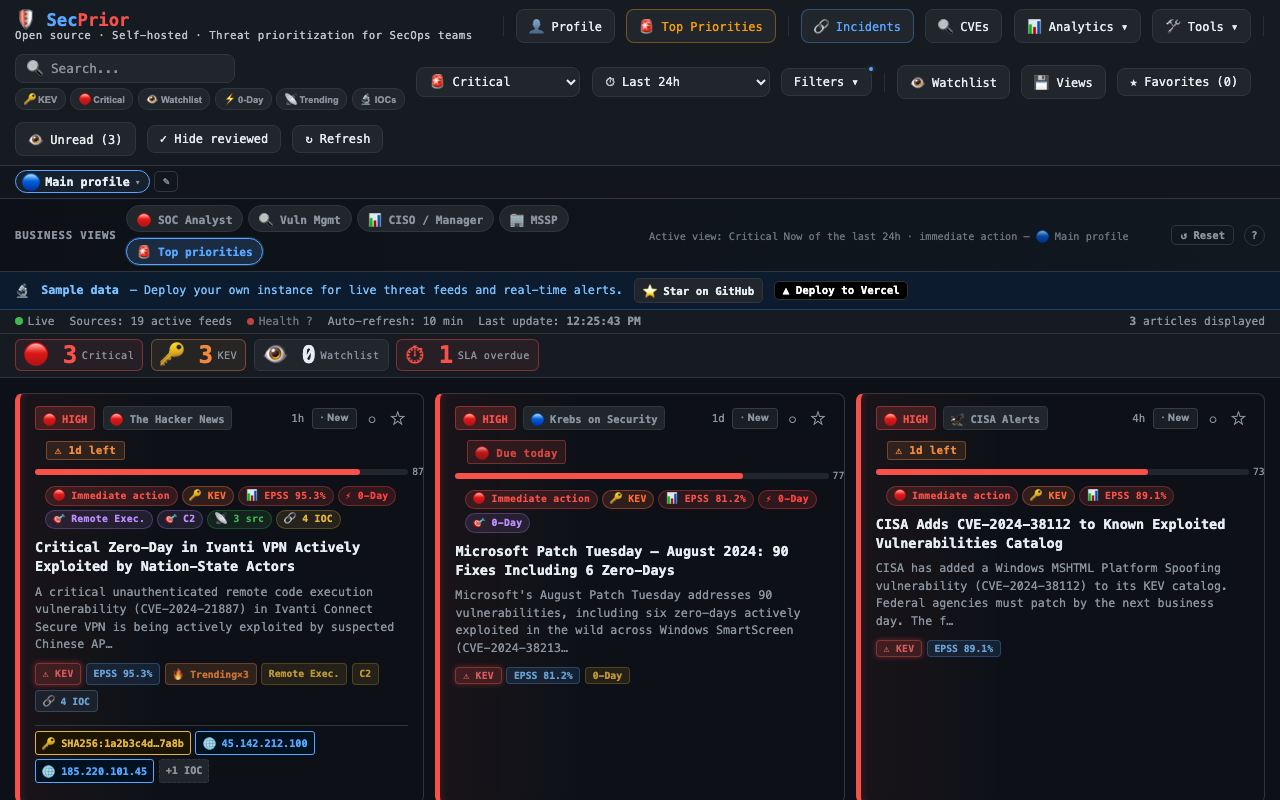
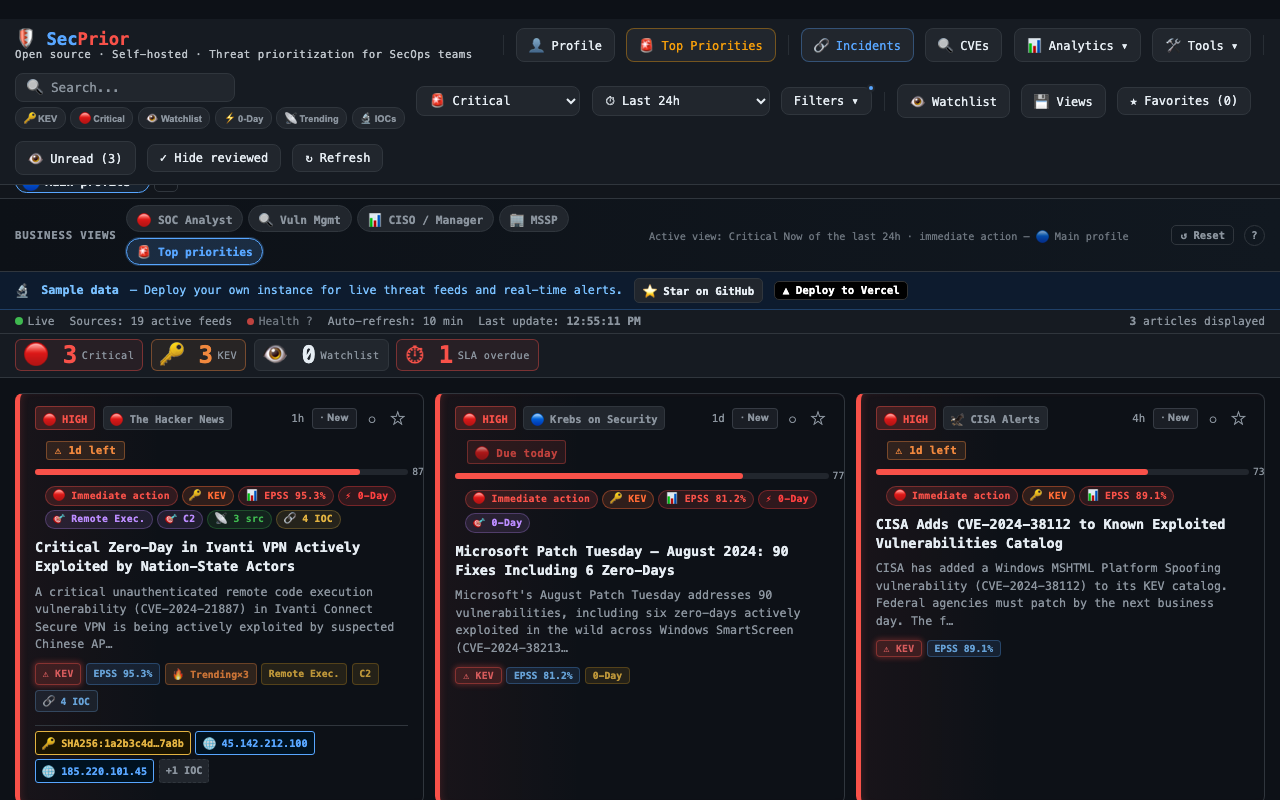
fix: clean up landing page issues
- Retake screenshots without browser extension bar (incognito + disable-extensions)
- Fix duplicate hero/capabilities heading: "Built for operational..." → "Seven capabilities, one workflow"
- Reduce vertical padding on mobile-heavy sections (py-20 → py-14 lg:py-20)

diff --git a/landing.html b/landing.html
@@ -184,7 +184,7 @@
       <div class="max-w-3xl">
         <p class="text-sm font-semibold uppercase tracking-[.2em] text-cyan-400">Core capabilities</p>
         <h2 class="mt-4 text-3xl font-bold tracking-tight sm:text-4xl">
-          Built for operational threat prioritization
+          Seven capabilities, one workflow
         </h2>
         <p class="mt-5 text-lg text-slate-400 leading-8">
           SecPrior helps teams move from feed overload to decision-ready threat context.
@@ -291,7 +291,7 @@
        5 — WHAT SECPRIOR DELIVERS
   ══════════════════════════════════════════════════════════════════════════ -->
   <section class="border-b border-white/8 bg-white/1">
-    <div class="mx-auto max-w-7xl px-6 py-20 lg:px-8">
+    <div class="mx-auto max-w-7xl px-6 py-14 lg:py-20 lg:px-8">
       <div class="max-w-3xl mx-auto text-center">
         <p class="text-sm font-semibold uppercase tracking-[.2em] text-cyan-400">What it delivers</p>
         <h2 class="mt-4 text-3xl font-bold tracking-tight sm:text-4xl">What SecPrior delivers</h2>
@@ -547,7 +547,7 @@
        8 — BUILT FOR REAL WORKFLOWS
   ══════════════════════════════════════════════════════════════════════════ -->
   <section class="border-b border-white/8 bg-white/1">
-    <div class="mx-auto max-w-7xl px-6 py-20 lg:px-8">
+    <div class="mx-auto max-w-7xl px-6 py-14 lg:py-20 lg:px-8">
       <div class="grid gap-14 lg:grid-cols-2 lg:gap-20">
         <div>
           <p class="text-sm font-semibold uppercase tracking-[.2em] text-cyan-400">Analyst-first design</p>
